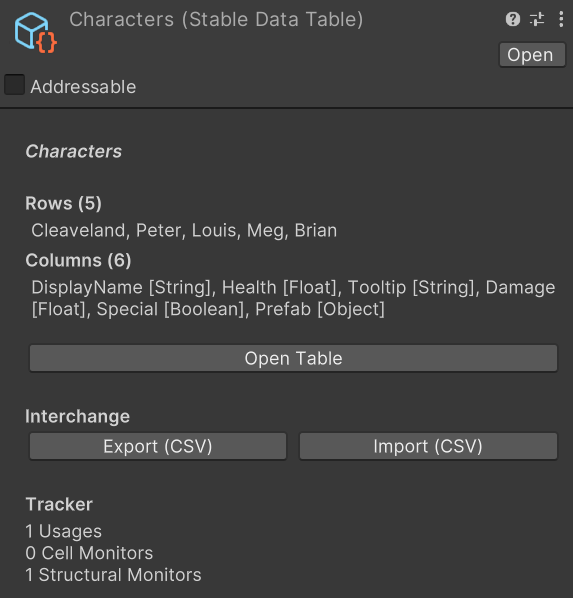
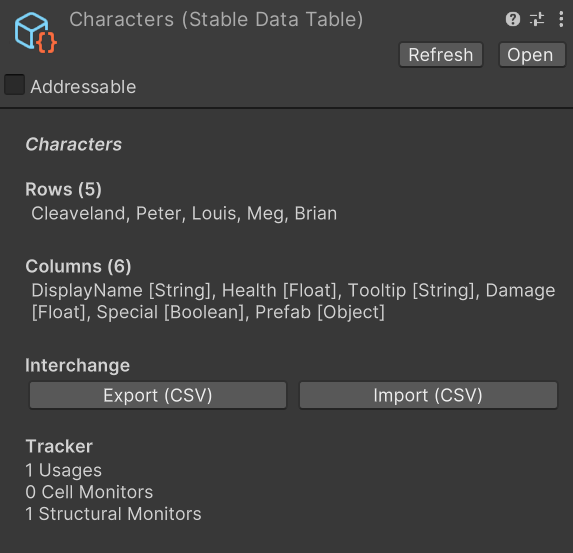
Test current doc generation

diff --git a/.docfx/styles/main.css b/.docfx/styles/main.css
@@ -120,6 +120,12 @@ form#search
 {
     text-align: left;
 }
+
+img {
+    max-width:100% !important;
+    height:auto;
+}
+
 @media only screen and (max-width: 768px) {
     .toc .nav > li, .toc .nav > li >a {
         display: block;

diff --git a/GDX.Editor/Inspectors/DataTableInspectorBase.cs b/GDX.Editor/Inspectors/DataTableInspectorBase.cs
@@ -3,7 +3,6 @@
 // See the LICENSE file in the project root for more information.
 
 using GDX.DataTables;
-using GDX.Editor.Windows.DataTables;
 using UnityEditor;
 using UnityEngine;
 #if UNITY_2022_2_OR_NEWER
@@ -30,6 +29,7 @@ namespace GDX.Editor.Inspectors
         Label m_DataTableLabel;
         Label m_DataTableTracker;
         Label m_DataTableTrackerLabel;
+        Button m_DataTableTrackerRefreshButton;
         Button m_OpenAssetButton;
         Label m_InterchangeLabel;
         Button m_ExportToCommaSeperatedValuesButton;
@@ -104,6 +104,10 @@ namespace GDX.Editor.Inspectors
 
             m_TableTicket = DataTableTracker.RegisterTable(dataTable);
             m_RootElement = new VisualElement();
+            m_DataTableTrackerRefreshButton =
+                new Button(UpdateInspector) { text = "Refresh", name = "gdx-datatable-refresh" };
+            m_RootElement.Add(m_DataTableTrackerRefreshButton);
+
             ResourcesProvider.SetupSharedStylesheets(m_RootElement);
             ResourcesProvider.SetupStylesheet("GDXDataTableInspector", m_RootElement);
 
@@ -119,18 +123,19 @@ namespace GDX.Editor.Inspectors
             m_ColumnDescription = new Label { name = "gdx-datatable-inspector-columns-description" };
             m_ColumnDescription.AddToClassList("gdx-datatable-inspector-description");
 
-            m_OpenAssetButton =
-                new Button(OpenTargetAsset) { text = "Open Table", name = "gdx-datatable-inspector-open" };
-
             m_InterchangeLabel = new Label("Interchange") { name = "gdx-datatable-inspector-interchange-label" };
+            m_InterchangeLabel.AddToClassList("gdx-datatable-inspector-label");
             m_ExportToCommaSeperatedValuesButton =
                 new Button(ExportToCommaSeperatedValues) { text = "Export (CSV)", name = "gdx-datatable-inspector-export-csv" };
             m_ImportFromCommaSeperatedValuesButton =
                 new Button(ImportFromCommaSeperatedValues) { text = "Import (CSV)", name = "gdx-datatable-inspector-import-csv" };
 
             m_DataTableTrackerLabel = new Label("Tracker") { name = "gdx-datatable-inspector-tracker-label" };
+
+
             m_DataTableTrackerLabel.AddToClassList("gdx-datatable-inspector-label");
             m_DataTableTracker = new Label { name = "gdx-datatable-inspector-tracker" };
+
 
             m_RootElement.Add(m_DataTableLabel);
             m_RootElement.Add(m_RowLabel);
@@ -227,16 +232,6 @@ namespace GDX.Editor.Inspectors
 
             m_ExportToCommaSeperatedValuesButton.SetEnabled(columnCount > 0);
             m_ImportFromCommaSeperatedValuesButton.SetEnabled(columnCount > 0);
-        }
-
-        /// <summary>
-        ///     Open the target <see cref="DataTableBase" /> in a <see cref="DataTableWindow" />.
-        /// </summary>
-        void OpenTargetAsset()
-        {
-            DataTableBase dataTable = (DataTableBase)target;
-            DataTableWindowProvider.OpenAsset(dataTable);
-            UpdateInspector();
         }
 
         void ExportToCommaSeperatedValues()

diff --git a/GDX.Editor/Windows/DataTables/DataTableWindowToolbar.cs b/GDX.Editor/Windows/DataTables/DataTableWindowToolbar.cs
@@ -30,9 +30,9 @@ namespace GDX.Editor.Windows.DataTables
             m_ToolbarTableMenu.menu.AppendAction("Write To Disk",
                 _ => { m_ParentWindow.Save(); }, CanSave);
             m_ToolbarTableMenu.menu.AppendSeparator();
-            m_ToolbarTableMenu.menu.AppendAction("Export to CSV",
+            m_ToolbarTableMenu.menu.AppendAction("Export (CSV)",
                 _ => {DataTableInspectorBase.ShowExportDialogForTable(m_ParentWindow.GetDataTable()); }, CanInterchange);
-            m_ToolbarTableMenu.menu.AppendAction("Import from CSV",
+            m_ToolbarTableMenu.menu.AppendAction("Import (CSV)",
                 _ => { DataTableInspectorBase.ShowImportDialogForTable(m_ParentWindow.GetDataTable()); }, CanInterchange);
             m_ToolbarTableMenu.menu.AppendSeparator();
             m_ToolbarTableMenu.menu.AppendAction("Settings",

diff --git a/.docfx/manual/features/data-tables.md b/.docfx/manual/features/data-tables.md
@@ -1,7 +1,9 @@
 # Data Tables
 
-TODO: Add stuff here!
+A robust implementation of a data table type similar to [Unreal Engines](https://docs.unrealengine.com/5.2/en-US/data-driven-gameplay-elements-in-unreal-engine/). _It's every game designers dream come true!_
 
+> [!NOTE]
+> This feature heavily relies on `Unity 2022.2` or newer functionality. The editing experience is disabled in older versions of Unity. The DataTableBase API is still valid for programmatic generation and manipulation.
 
 ## Column Types
 
@@ -9,7 +11,7 @@ Type coverage is very much related to how and what Unity will be able to seriali
 
 Values | Structs
 | --- | --- |
-| `string`, `char`, `bool`, `sbyte`, `byte`, `short`, `ushort`, `int`, `uint`, `long`, `ulong`, `float`, `double` | `Vector2`, `Vector3`, `Vector4`,  `Vector2Int`,  `Vector3Int`, `Quaternion`, `Rect`, `RectInt`, `Color`, `LayerMask`, `Bounds`, `BoundsInt`, `Hash128`, `Gradient`, `AnimationCurve` | `UnityEngine.Object`
+| `string`, `char`, `bool`, `sbyte`, `byte`, `short`, `ushort`, `int`, `uint`, `long`, `ulong`, `float`, `double` | `Vector2`, `Vector3`, `Vector4`,  `Vector2Int`,  `Vector3Int`, `Quaternion`, `Rect`, `RectInt`, `Color`, `LayerMask`, `Bounds`, `BoundsInt`, `Hash128`, `Gradient`, `AnimationCurve`
 
 Usage of `Object` (`UnityEngine.Object`) and `EnumInt` types require additional information to be provided when creating a new column. A filter field will be visible when adding a column of these types asking for a fully qualified name of the desired type; this allows editing fields to isolate types.
 
@@ -25,30 +27,43 @@ This utilizes the `CreateAssetMenu` attribute on the `DataTableBase` implementat
 
 ![Inspector](/images/manual/features/data-table/inspector.png)
 
-### Rows
-### Columns
+A surface-level display of information about the `DataTableBase` is made available via the inspector. Names of rows and columns are listed, including the type of column.
+
+Clicking the **Open** button will open an editing window focused on the selected `DataTableBase`.
+
 ### Interchange
+
+The DataTableBase allows for interchange between formats, export and non-destructive table data import. What this means in practice is that you can export an already-built table and make changes in whatever editing program a user desires. Those changes can then be re-imported back into Unity, maintaining existing references (an example being an object column referencing prefabs).
+
+> [!WARNING]
+> It is important to note that the column structure (order and types) cannot change in the imported data. The row identifiers will be used to match up rows, updating where appropriate, creating when necessary, and removing when no longer found.
+
 ### Tracker
 
-
+Table information is tracked in the editor via a reference counting mechanism. This information is helpful for developers to identify leaking references that were expected to be removed. This information is updated manually every time the inspector is drawn. While some table-driven events trigger a redraw, this number sometimes needs to be refreshed. The **Refresh** button at the top of the inspector will update the numbers.
 
 ## Table Window
 
 ![Table Window](/images/manual/features/data-table/window.png)
 
-Bringing a spreadsheet-like editing experience to DataTables, this window allows for a designer or developer to quickly work on the structure or data of a DataTable in a familiar and expected experience. A unique-to-asset window will appear by double-clicking a DataTable asset or clicking the **Open Table** button while inspecting it.
+Bringing a spreadsheet-like editing experience to DataTables, this window allows for a designer or developer to quickly work on the structure or data of a DataTable in a familiar and expected experience. A unique-to-asset window will appear by double-clicking a DataTable asset or clicking the **Open** button while inspecting it.
 
 ### Table Menu
+
+The first item in the menu bar covers table-specific operations and includes some of the functionality found in the individual inspectors (interchange operations, for example).
+
 #### Write To Disk
 
 A DataTable is backed by a ScriptableObject; changes reside in memory until they are committed to disk by saving the project and/or asset. This option will execute a `SaveAssetIfDirty` on the backing object writing the contents to disk.
 
-> [!NOTE]
+> [!TIP]
 > This option will only be available when changes are detected to the currently opened DataTable.
 
-#### Export To CSV
-#### Import From CSV
 #### Settings
+
+`DataTableBase`s have settings which outline the behaviour of the table as well as some nice-to-have features. The **Display Name** is a user-friendly name shown throughout the editor for this table. 
+
+> The undo functionality is disabled by default, as it can be rather costly to execute across large datasets and is only available in Unity 2022.2 and newer.
 
 ### Columns Menu
 #### Add
@@ -72,8 +87,3 @@ Currently, only the column headers have a context menu allowing the user to perf
 ### Move Left
 ### Move Right
 ### Reset Order
-
-
-
-# Undo
-Undo is only supported in 2022.2 and newer
